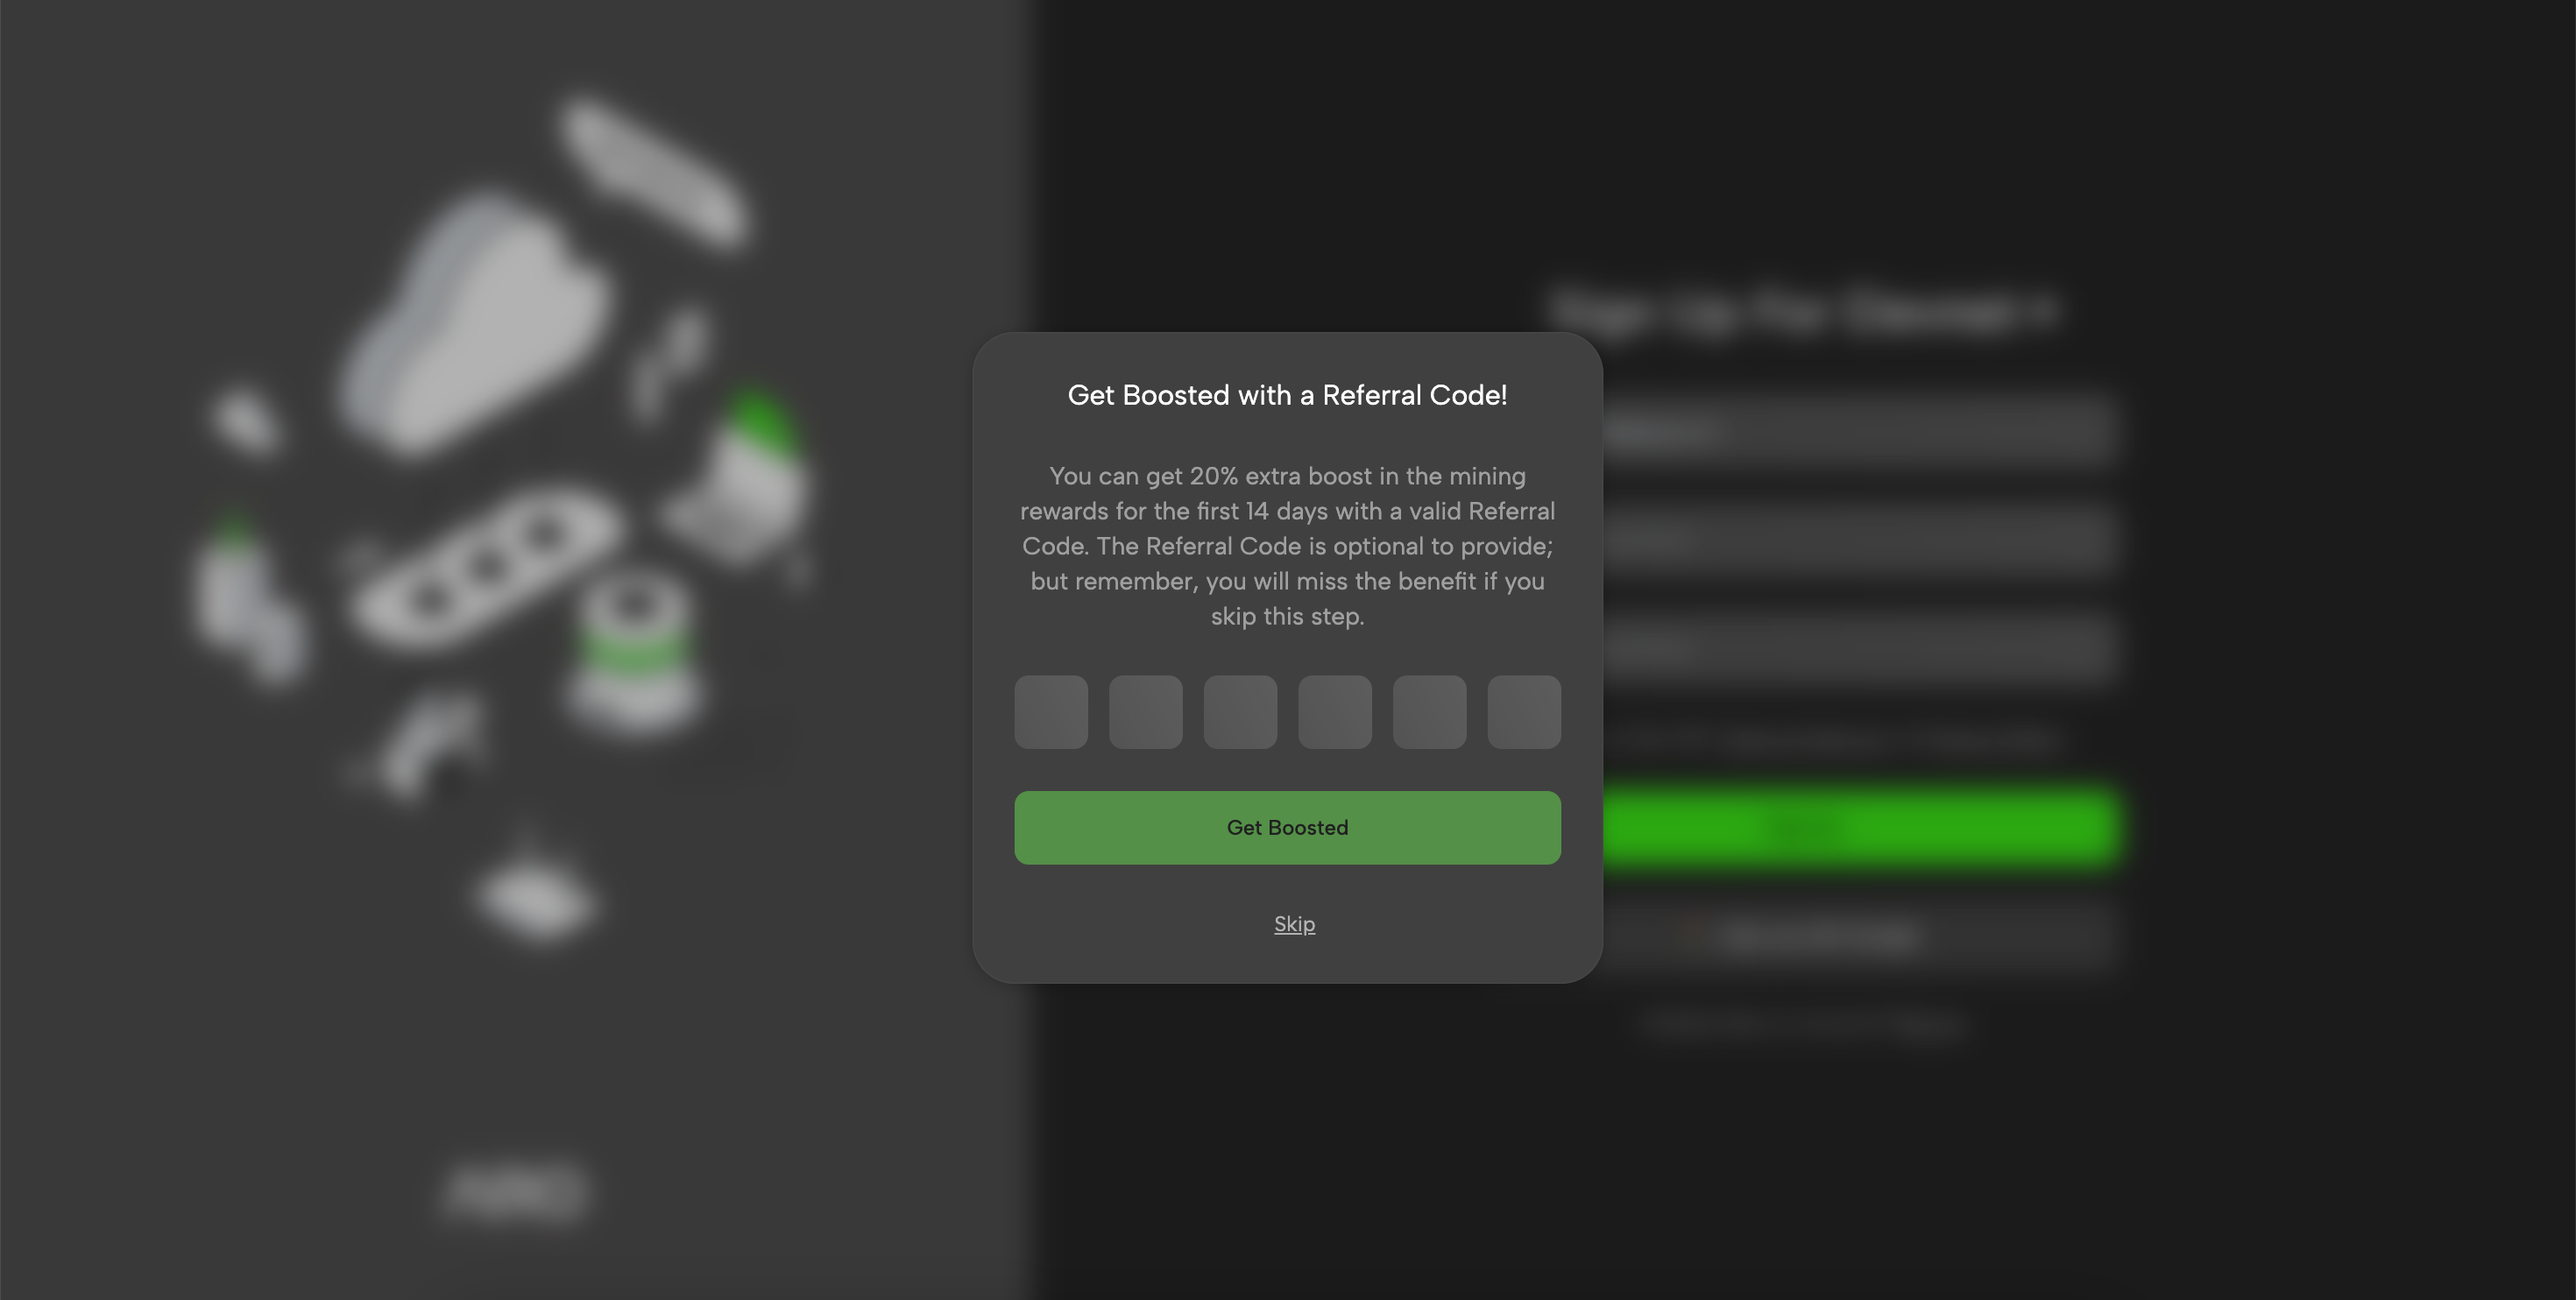
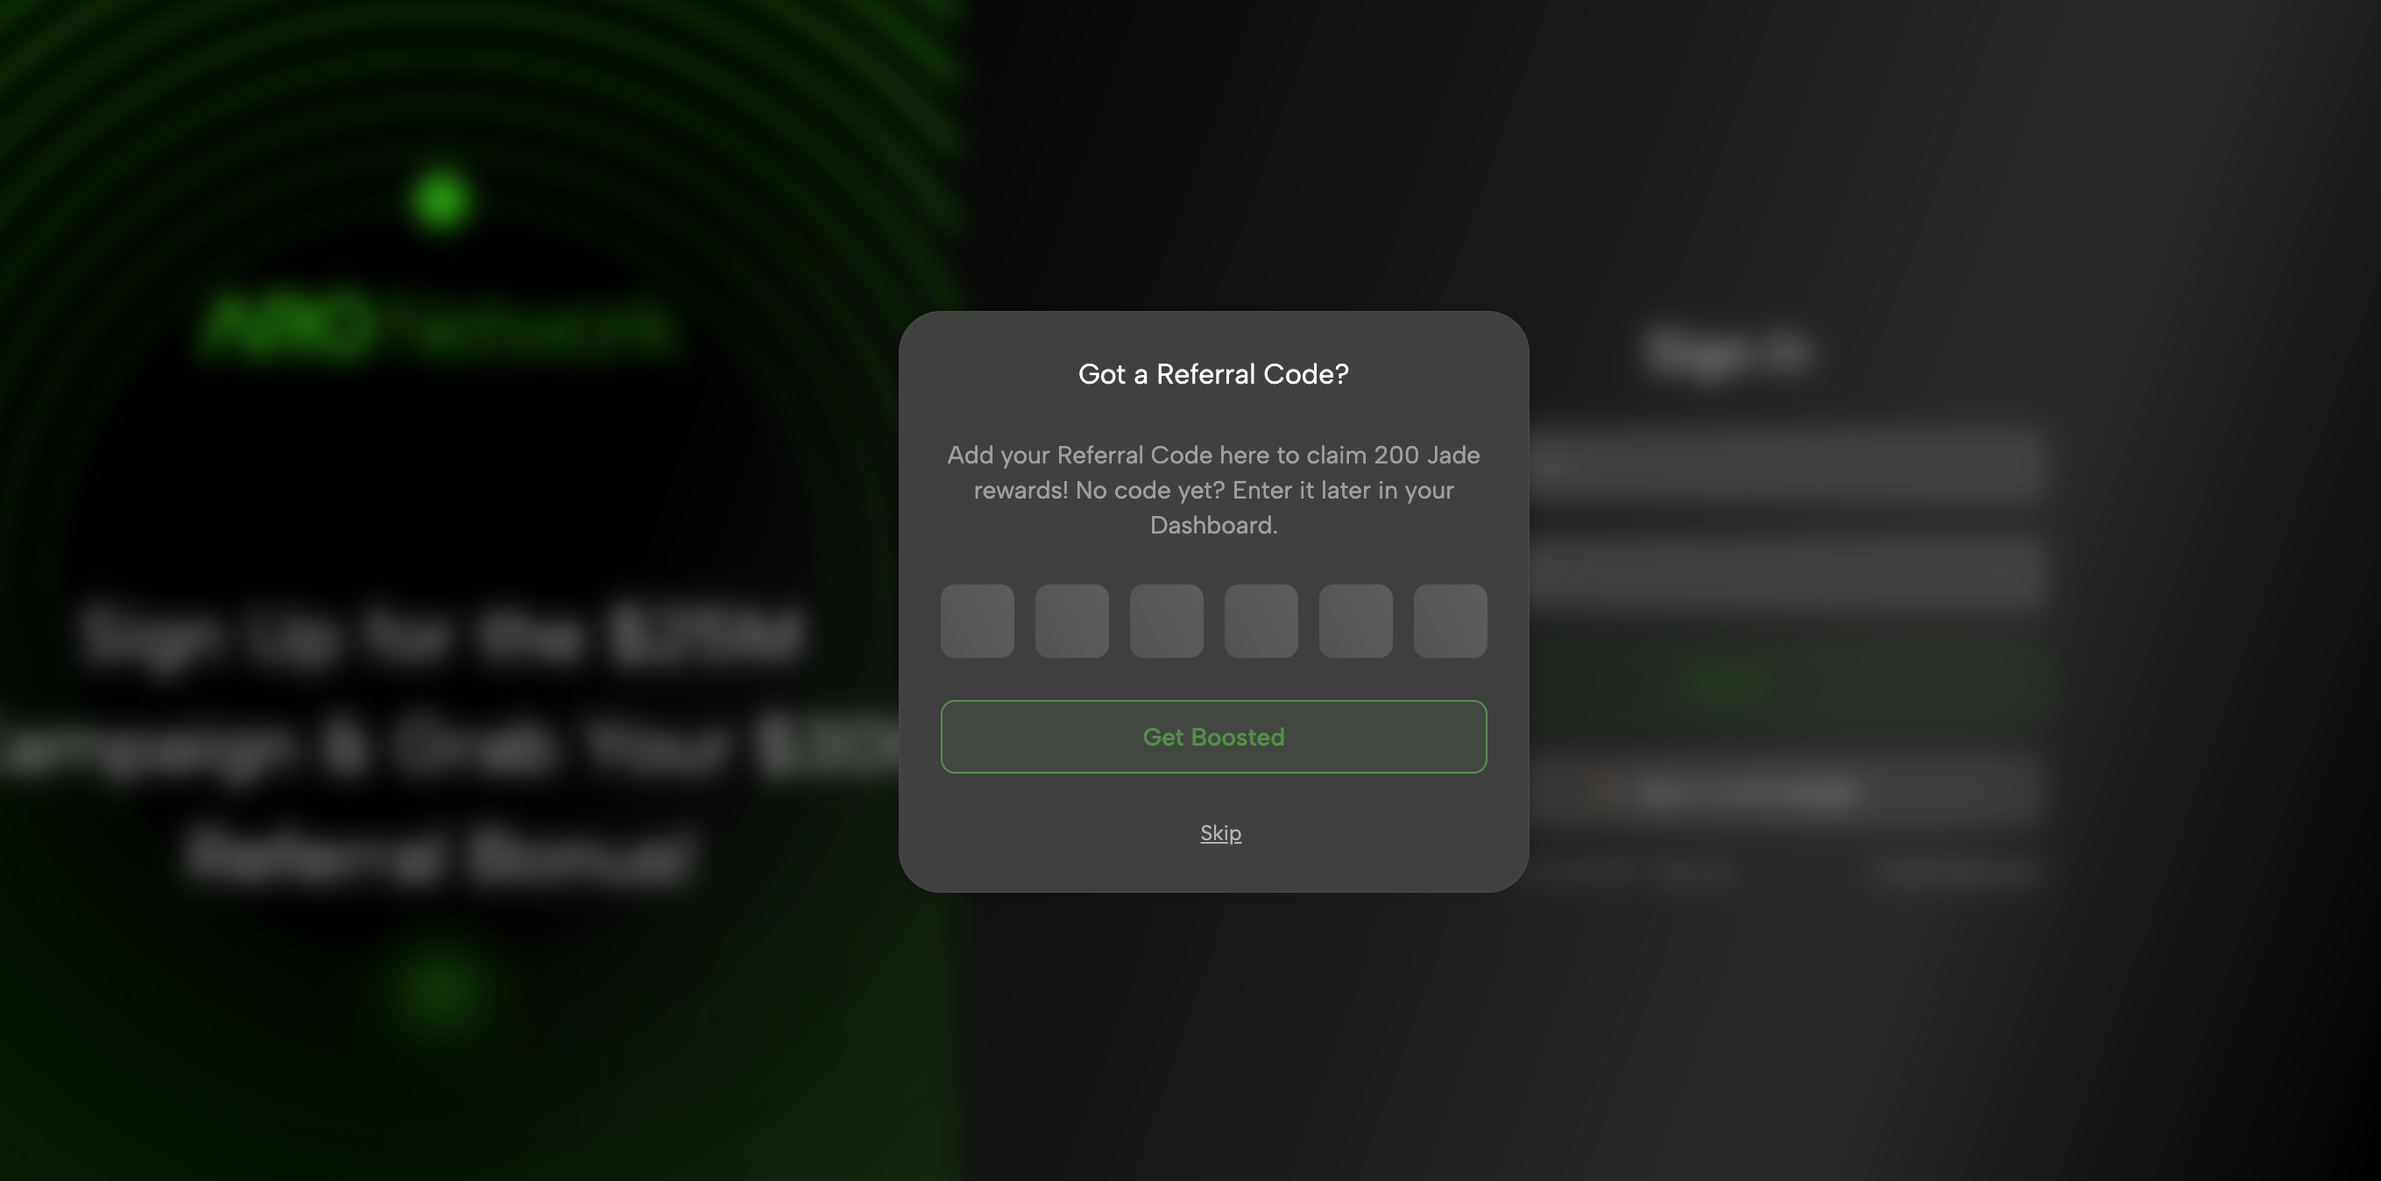
0720-1

diff --git a/docs/user-guides/dashboard.md b/docs/user-guides/dashboard.md
@@ -8,26 +8,26 @@ import Link from '@docusaurus/Link';
 
 ### General Guide
 
-The [ARO Dashboard](https://devnet-dashboard.ARO.network/) is your all-in-one platform for managing Edge Nodes and rewards.
+The [ARO Dashboard](https://dashboard.ARO.network/) is your all-in-one platform for managing ARO Nodes, campaigns and rewards.
 
 With the ARO Dashboard, you can:
+
 - Create an ARO Account
+- Access to your Previewnet Campaign page
 - Access your Referral Code, invite friends to join ARO, and earn Referral Rewards
-- Manage all your Edge Nodes
+- Manage all your ARO Nodes
 - Track and manage your rewards
-- Manage your funds
+- Manage your funds (Coming soon)
 
 ### ARO Account
 
 New users must register an **ARO Account** to get started. Once registered, you can sign in anytime, anywhere to manage your Edge Nodes and related activities.
 
-![Sign In Page](/img/user-guides/sign_in_page.png)
-
-This is the **Sign In** page. If you're new to ARO, click **Sign Up** at the bottom to create your ARO Account. You can register using an email address or a Google Account. For email registration, you’ll need to set a password and verify your email.
+You can register using an **email address** or a **Google Account**. For email registration, you’ll need to set a password and verify your email.
 
 ![Input Referral Code](/img/user-guides/input_referral_code.png)
 
-During registration, you’ll be prompted to enter a **Referral Code**. Using a Referral Code grants a 20% reward boost for a limited period after signing up. If you don’t have a code, you can skip this step and add one later.
+During registration, you’ll be prompted to enter a **Referral Code**. Using a Referral Code grants a instant Jade reward. If you don’t have a code, you can skip this step and add one later in the Dashboard.
 
 ### What’s in the Dashboard?
 
@@ -35,14 +35,13 @@ During registration, you’ll be prompted to enter a **Referral Code**. Using a 
 
 The **topbar** provides access to all available pages:
 
-- **Edge Node**: View and manage all Edge Nodes linked to your ARO Account. You can add new nodes or remove existing ones. Clicking a device card displays detailed information about that node.
+- **Campaign**: This is your page for the main campaign in <Link to="/campaigns/previewnet">**ARO Previewnet**</Link>.
 
-  > To learn how to add a new Edge Node to the Dashboard, refer to <Link to="/user-guides/device-setup">this guide</Link>.
+- **ARO Node**: View and manage all ARO Nodes linked to your ARO Account. You can add new nodes or remove existing ones. Clicking a device card displays detailed information about the node.
 
-- **Stats**: Monitor the number of Edge Nodes you’re running, their online status, and the total rewards earned from operating them.
-- **Funds**: Manage your funds, including claiming token rewards to your wallet.
+  > To learn how to add a new node to the Dashboard, refer to the **User Guides** in this Docs based on your selected node types.
 
-  > **Wallet binding** and **token claiming** features will be available at a later stage.
+- **Mining Stats**: Monitor the number of ARO Nodes you’re running, their online status, and the total rewards earned from operating them. 
 
-- **Referral**: Access your Referral Code, copy Referral Links, and track bonuses earned through referrals.
-- **ARO ID**: Manage basic account settings and operations for your ARO Account.
+  > Special Remind: In **Previewnet** phase, you will be mining Preview Jade, a simulation of mining rewards, instead of real Jade rewards. Please refer to <Link to="/campaigns/previewnet">**ARO Previewnet**</Link> page for details. 
+- **ARO Account**: Manage basic account settings and operations for your ARO Account.
